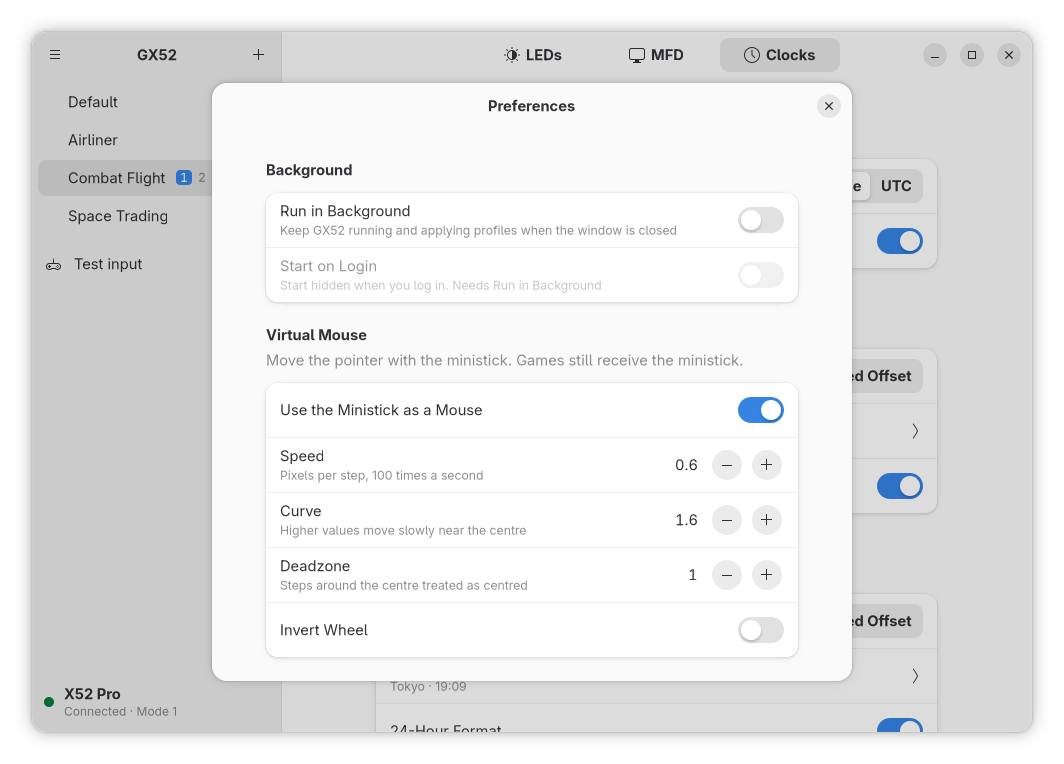
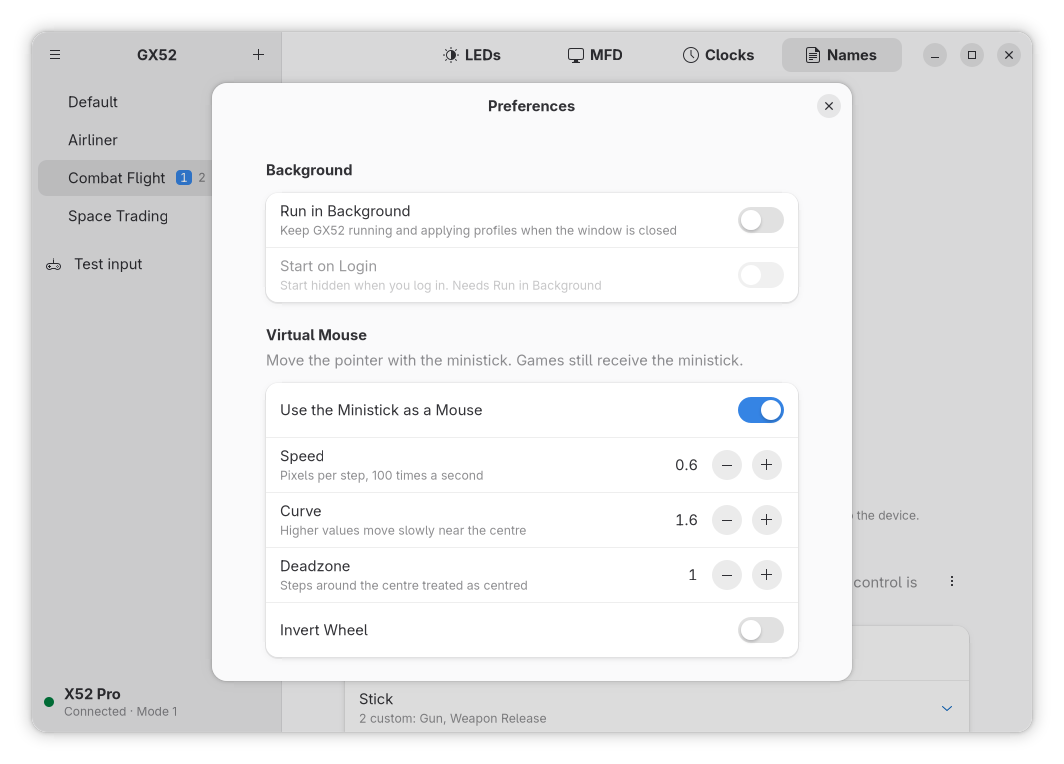
test(screenshots): show control names
Seed names in the Combat Flight fixture, the pose keys included, and add a
seventh shot of the Names view with E focused and previewed on the MFD. Mode 1's
third line becomes a Last button line so the preview has a line to show it.

diff --git a/src/screenshots/capture.rs b/src/screenshots/capture.rs
@@ -53,6 +53,11 @@ const POLL_INTERVAL: Duration = Duration::from_millis(50);
 /// The fixture text on the first MFD line of the active profile in mode 1.
 const MFD_FIRST_LINE: &str = "MASTER ARM ON";
 
+/// The control whose name the Names shot focuses, and its name in the fixture's mode 1, which the
+/// preview shows on the "Last button" line.
+const NAMES_FOCUSED: x52_input::Input = x52_input::Input::Button(Button::ButtonE);
+const NAMES_FOCUSED_NAME: &str = "Emerg. Lights";
+
 /// The stick's left-to-right value in the input tester shot's pose (the screenshot backend).
 const POSE_STICK_X: i32 = 700;
 
@@ -73,7 +78,7 @@ struct Shot {
 }
 
 /// The screenshots, in the order they are taken.
-const SHOTS: [Shot; 6] = [
+const SHOTS: [Shot; 7] = [
     Shot {
         name: "leds",
         set_up: |_, window| show_view(window, "leds", WIDE),
@@ -113,6 +118,27 @@ const SHOTS: [Shot; 6] = [
             let editor = &window.imp().clock_editor;
             check(editor.is_mapped(), "the clock editor is mapped")?;
             check(editor.times_shown(), "every clock shows its time")
+        },
+    },
+    Shot {
+        name: "names",
+        set_up: |_, window| {
+            show_view(window, "names", WIDE);
+            window.reveal_name(NAMES_FOCUSED);
+        },
+        ready: |app, window| {
+            device_ready(app)?;
+            sized(window, WIDE)?;
+            let editor = &window.imp().names_editor;
+            check(editor.is_mapped(), "the Names editor is mapped")?;
+            check(editor.rows_built(), "the name rows are built")?;
+            let (lines, _) = editor.display().shown_text();
+            check(
+                lines
+                    .get(2)
+                    .is_some_and(|line| line.trim_end() == NAMES_FOCUSED_NAME),
+                "the MFD preview shows the focused control's name",
+            )
         },
     },
     Shot {

diff --git a/src/widgets/names_editor.rs b/src/widgets/names_editor.rs
@@ -475,6 +475,16 @@ impl NamesEditor {
         }
     }
 
+    /// The simulated display.
+    pub(crate) fn display(&self) -> crate::widgets::MfdDisplay {
+        self.imp().display.get()
+    }
+
+    /// Whether the rows of a device type are built.
+    pub(crate) fn rows_built(&self) -> bool {
+        self.imp().built_for.get().is_some()
+    }
+
     /// Shows the display again: the dynamic lines and the time follow the device and the clock.
     pub(crate) fn refresh_display(&self) {
         let imp = self.imp();

diff --git a/docs/release.md b/docs/release.md
@@ -302,7 +302,7 @@ The diff of a dry run is against `beta` for a `0.x` version, `master` from `1.0.
 
 ## Screenshots
 
-The metainfo lists six screenshots under `data/screenshots/` (not installed), with translatable
+The metainfo lists seven screenshots under `data/screenshots/` (not installed), with translatable
 captions. Their URLs follow the trunk
 (`raw.githubusercontent.com/leinardi/gx52/main/data/screenshots/...`), not the tag: the
 gate mirrors them before the tag exists. A side effect: a later screenshot change on the trunk also
@@ -326,6 +326,7 @@ real change of the UI; look at each changed PNG before committing it. Needs `wes
 | `data/screenshots/leds.png` | the main window with a per-mode profile, on the LEDs page |
 | `data/screenshots/mfd.png` | the MFD page: the display preview and its text |
 | `data/screenshots/clocks.png` | the Clocks page: three clocks in real time zones |
+| `data/screenshots/names.png` | the Names page: custom control names, one focused and previewed on the MFD |
 | `data/screenshots/profiles.png` | the profile list, in the narrow window |
 | `data/screenshots/preferences.png` | Preferences |
 | `data/screenshots/tester.png` | the input tester, with the joystick in a fixed pose |

diff --git a/README.md b/README.md
@@ -38,6 +38,10 @@ come from the documentation, not from a device on the desk. Reports from X52 own
 | --- | --- | --- |
 | ![The profile list](data/screenshots/profiles.png) | ![Running in the background and the virtual mouse](data/screenshots/preferences.png) | ![Every button, axis and hat, live](data/screenshots/tester.png) |
 
+| Names |
+| --- |
+| ![Custom names for the controls](data/screenshots/names.png) |
+
 ## Install
 
 ### Flathub
